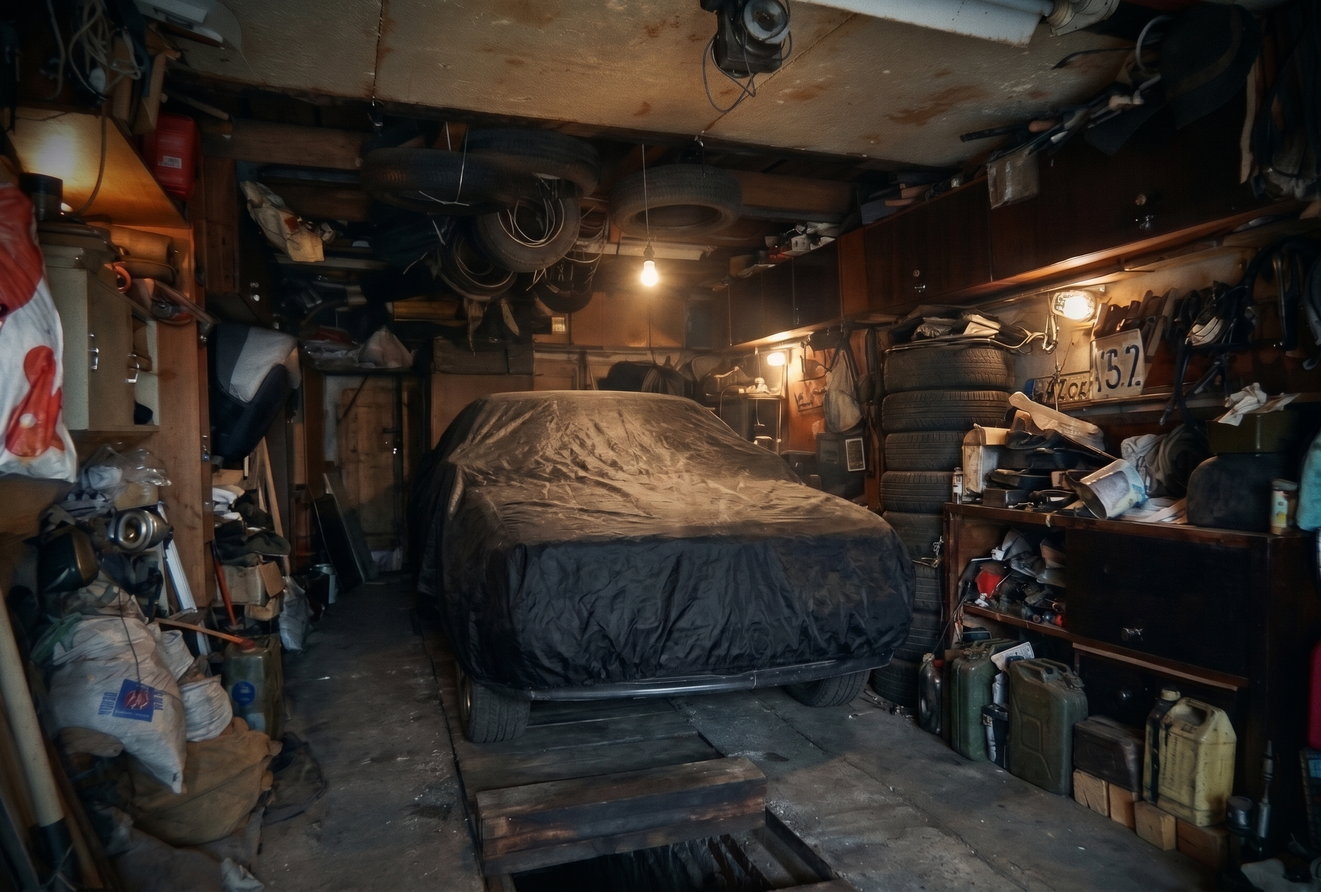
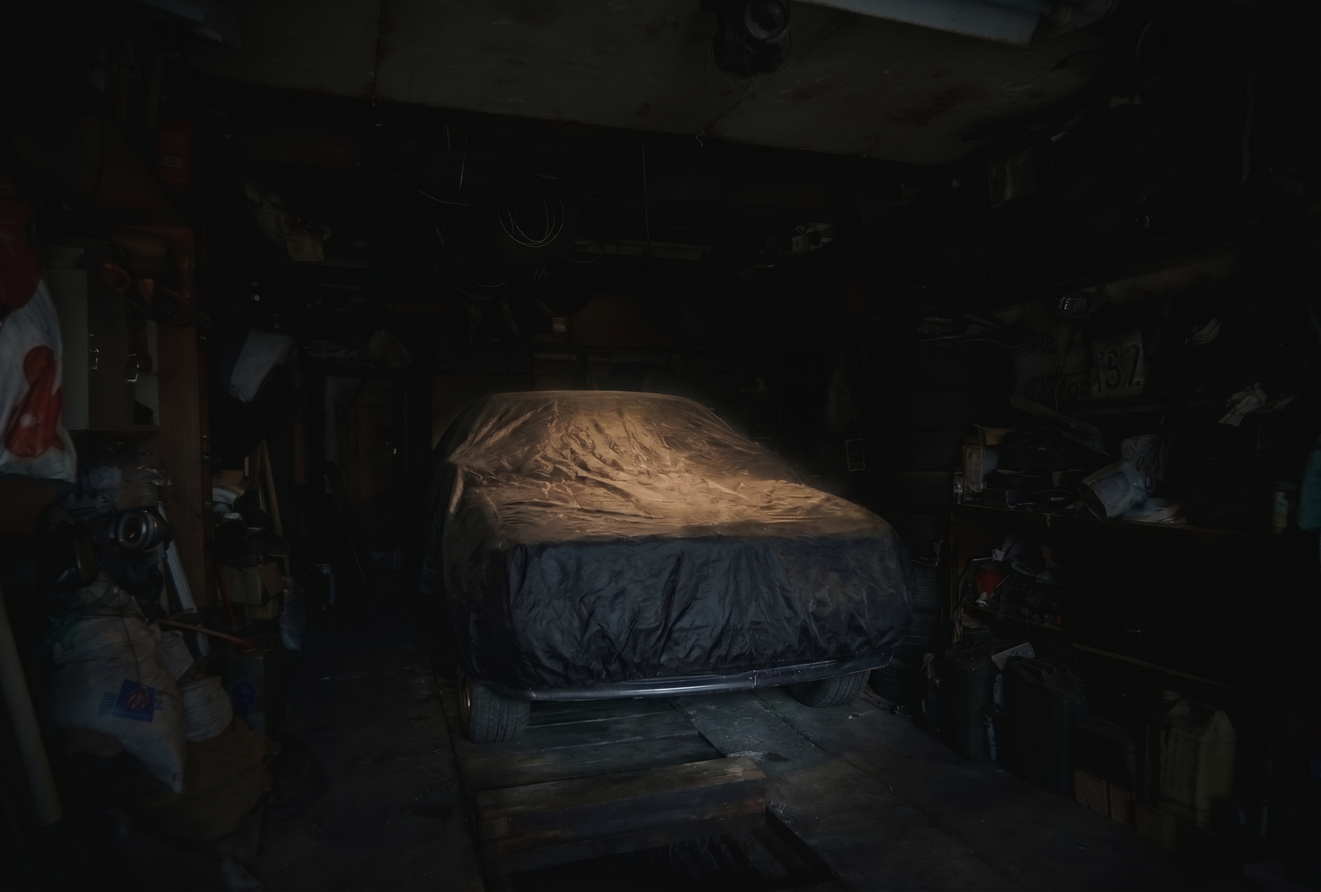
feat(art): новый фон меню из main menu.jpg
- исходник art/source/menu_garage.jpg заменён на новый, тёмный, со светом на машине
- параметры пикселизации под тёмную картинку: яркость 1.25, резкость 1.2
- отдельные свечения ламп убраны (на новом фоне их нет), мигание света —
  затемнение всей сцены; MenuScene работает и без ламп в конфиге

diff --git a/src/scenes/MenuScene.js b/src/scenes/MenuScene.js
@@ -47,7 +47,7 @@ export class MenuScene extends BaseScene {
     this.goTo(SCENES.INTRO);
   }
 
-  /** Тёплое пиксельное свечение ламп фона; одна лампа изредка мигает (ТЗ 3.3). */
+  /** Свечение ламп фона (если заданы в data/menu.json) и мигание света (ТЗ 3.3). */
   #createLamps() {
     const { lamps, flicker } = menuConfig;
     if (!this.textures.exists('fx_glow')) this.#makeGlowTexture();
@@ -60,19 +60,21 @@ export class MenuScene extends BaseScene {
         .setBlendMode(Phaser.BlendModes.ADD),
     );
 
-    // Мигает главная лампа под потолком: короткая серия провалов света и общее затемнение.
+    // Мигание: короткая серия провалов света всей сцены и главной лампы, если она есть.
     const main = glows[0];
     const shade = this.add
       .rectangle(0, 0, this.scale.width, this.scale.height, 0x000000, 0)
       .setOrigin(0);
     const blink = () => {
-      this.tweens.add({
-        targets: main,
-        alpha: 0,
-        duration: 60,
-        yoyo: true,
-        repeat: flicker.times - 1,
-      });
+      if (main) {
+        this.tweens.add({
+          targets: main,
+          alpha: 0,
+          duration: 60,
+          yoyo: true,
+          repeat: flicker.times - 1,
+        });
+      }
       this.tweens.add({
         targets: shade,
         fillAlpha: flicker.shade,
